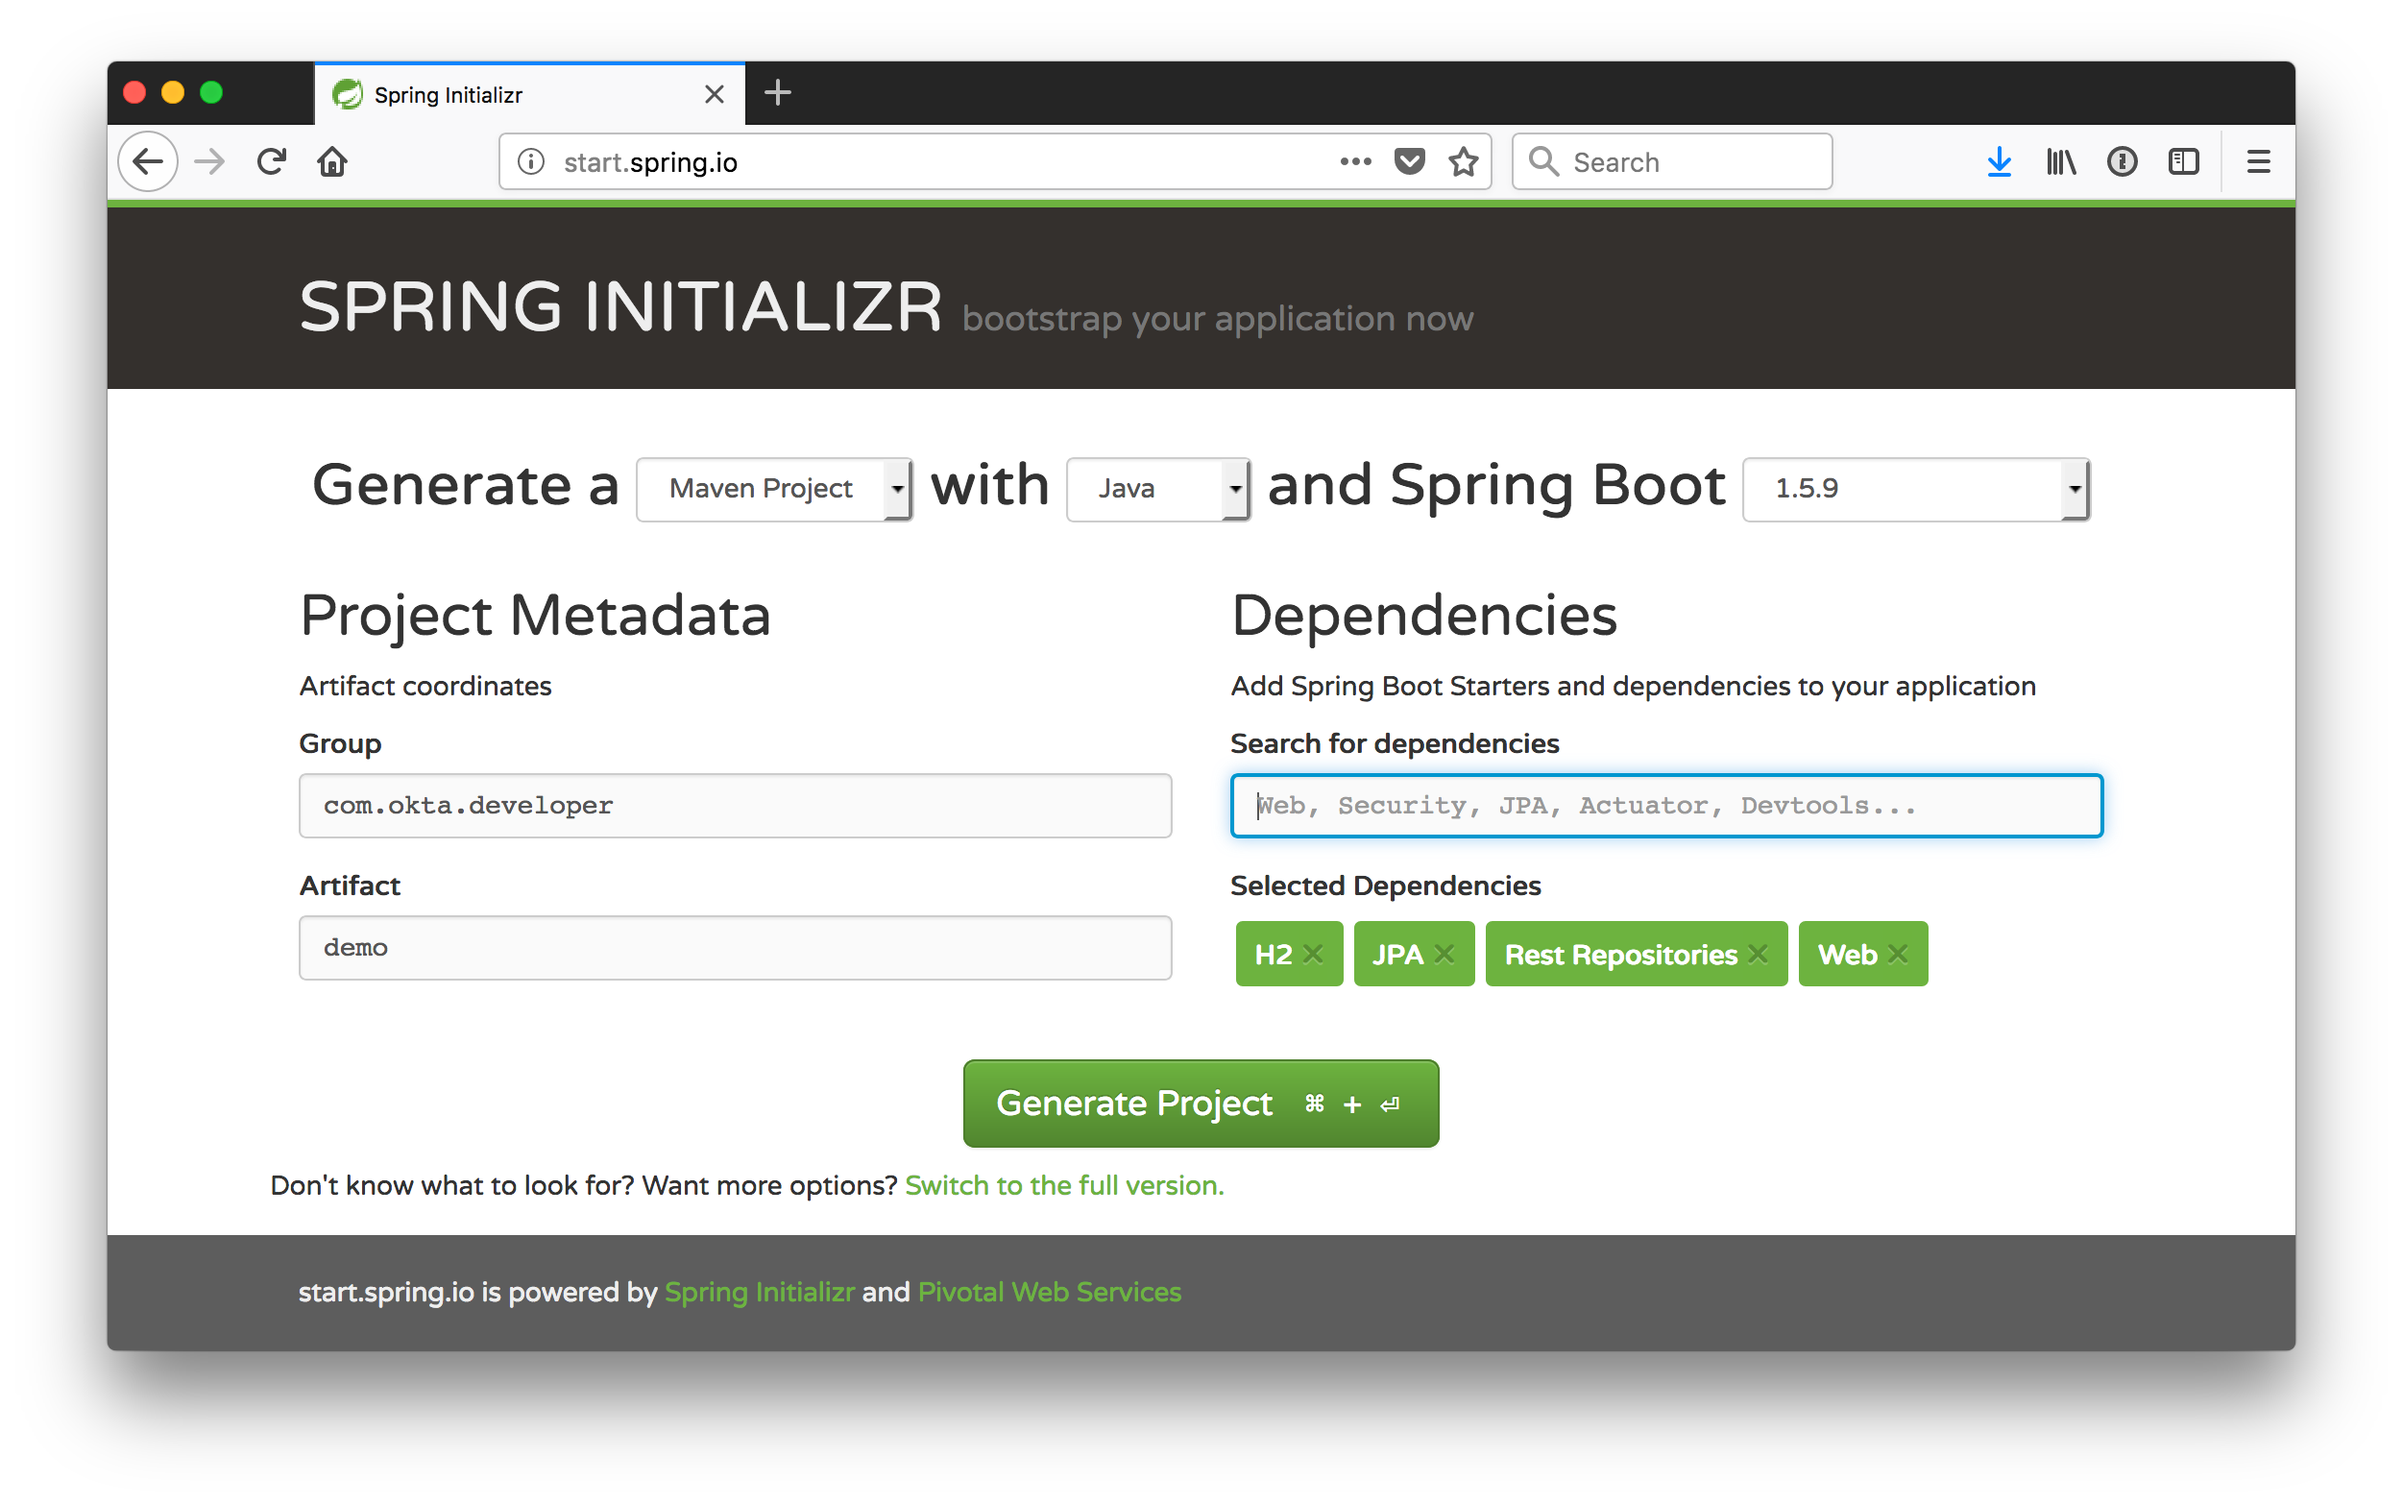
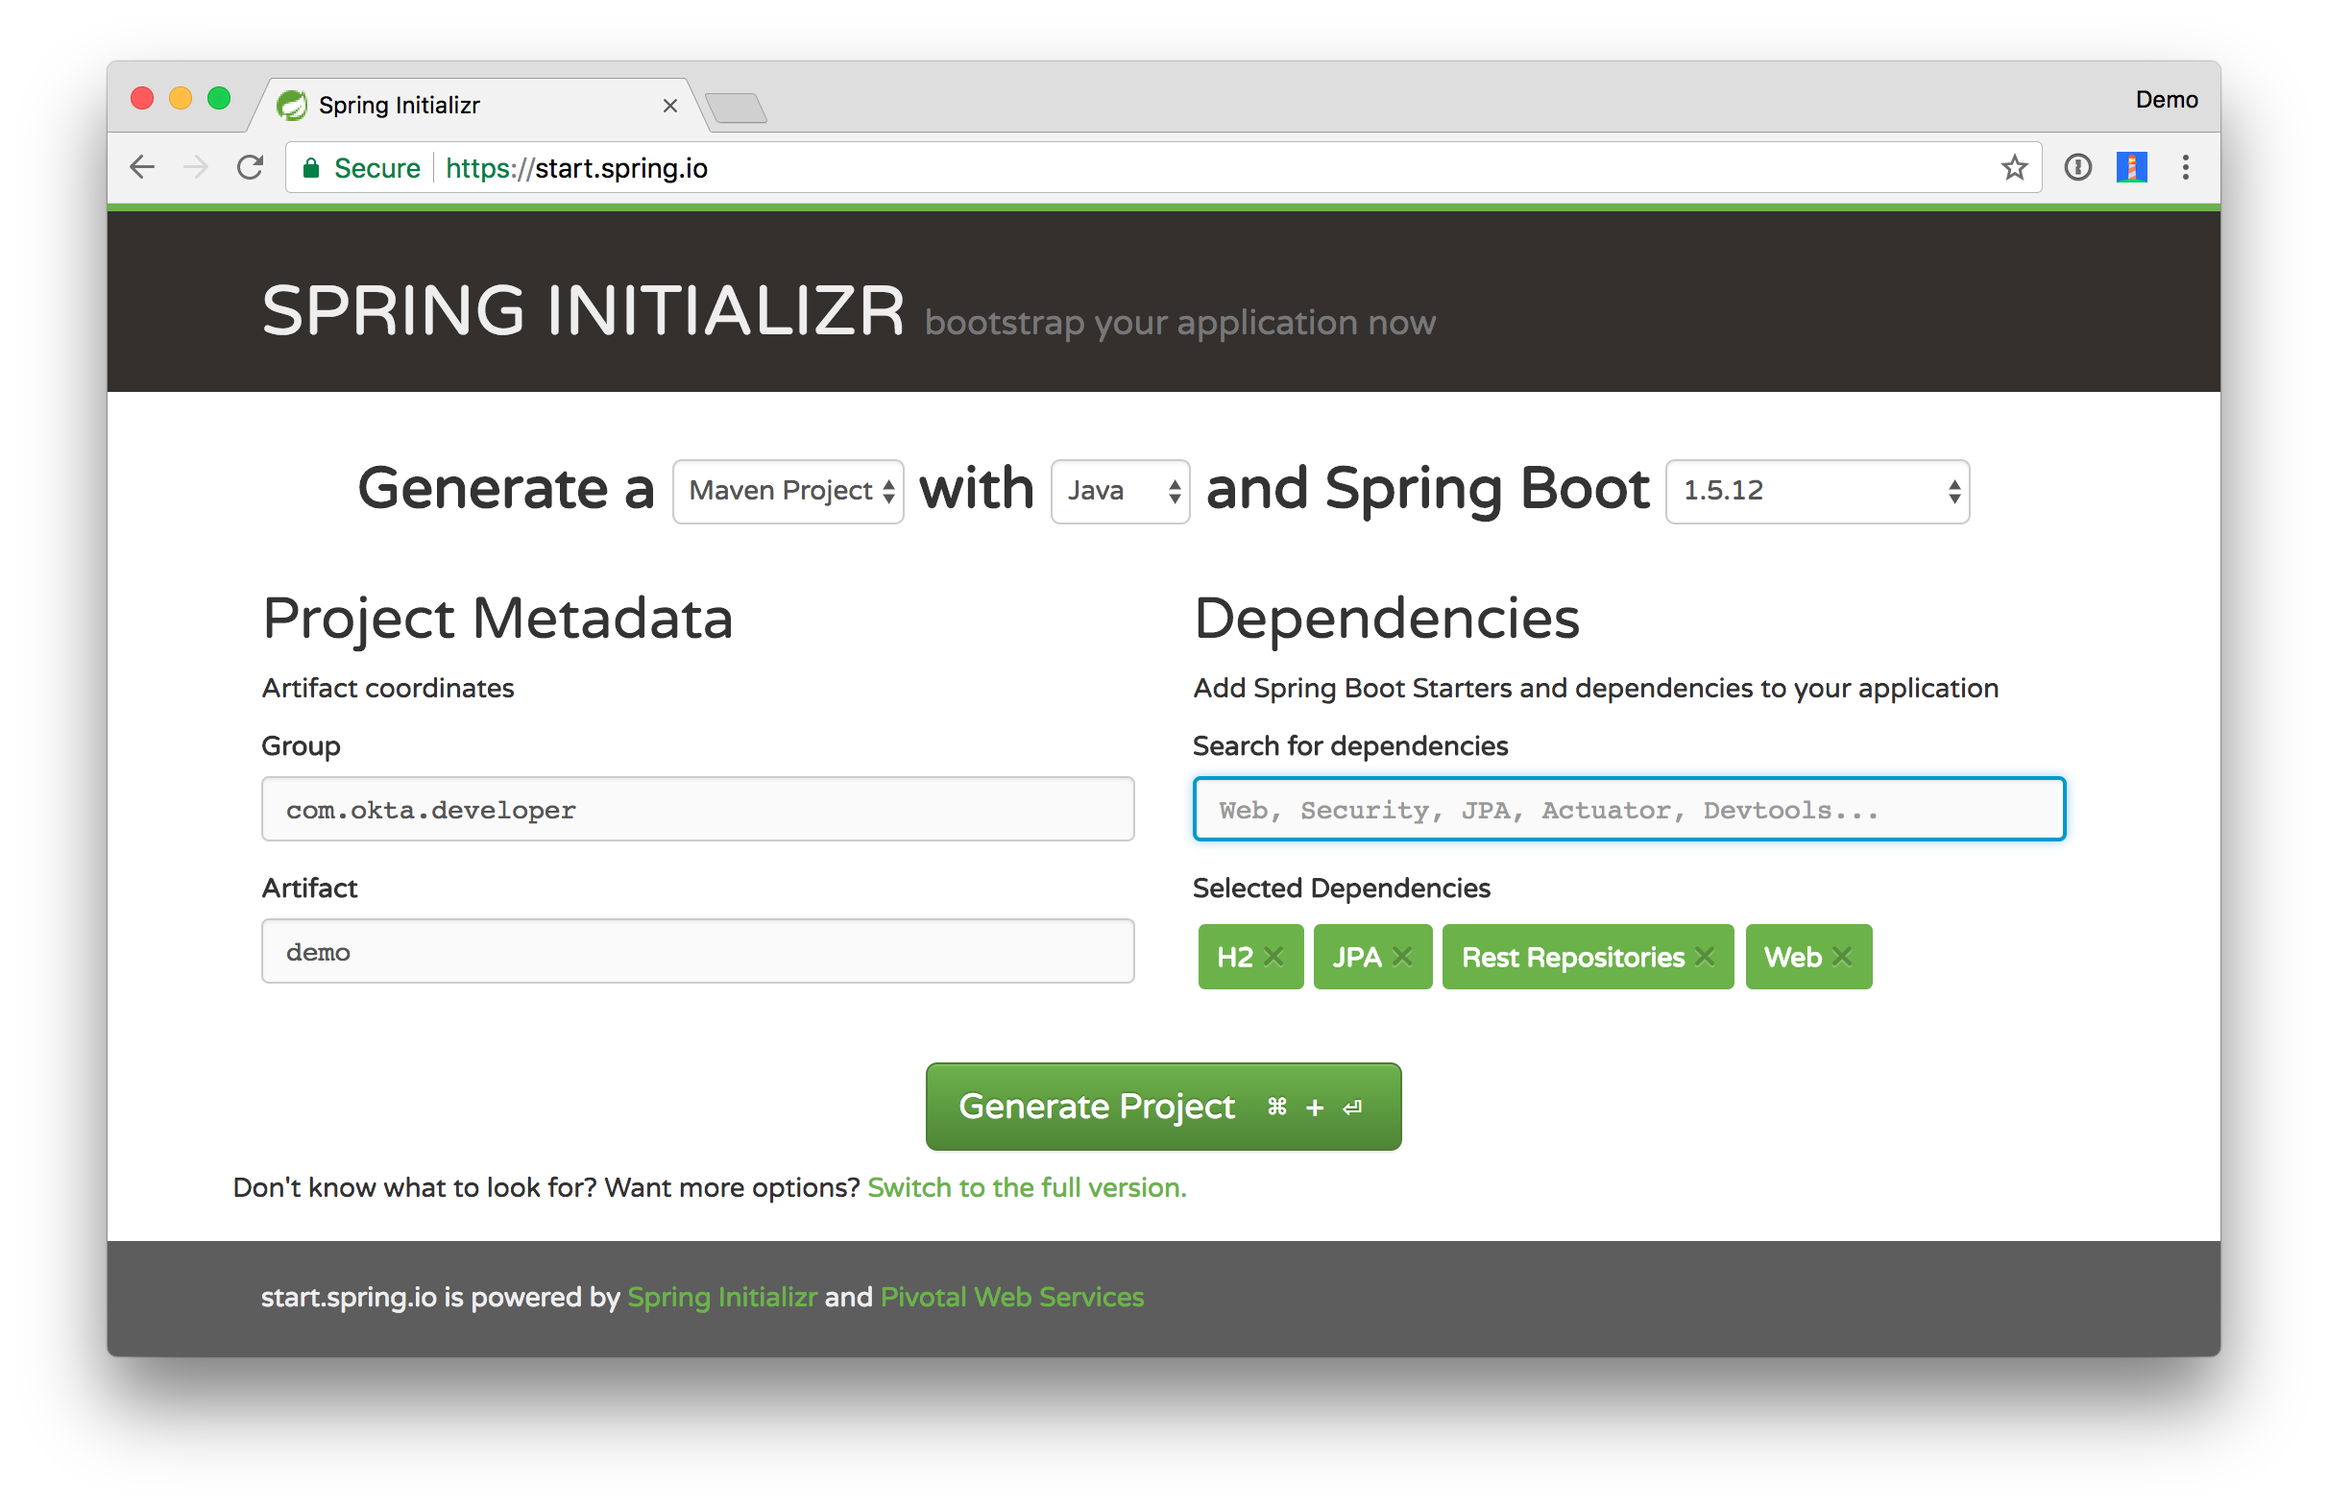
Update Bootiful React post to use Spring Boot 1.5.12 and Okta React 1.0.0

diff --git a/_source/_posts/2017-12-06-bootiful-development-with-spring-boot-and-react.md b/_source/_posts/2017-12-06-bootiful-development-with-spring-boot-and-react.md
@@ -6,7 +6,7 @@ description: "This post shows how you can build a UI and an API as separate apps
 tags: [authentication, spring boot, react, okta, oidc]
 tweets: 
   - "Learn how to integrate @springboot and @reactjs in this tutorial from @mraible."
-  - "Want to develop an application with @java on the backend and @typescriptlang on the front? This article is for you!"
+  - "Want to develop an application with @java on the backend and @reactjs on the front-end? This article is for you!"
 ---
 
 React has been getting a lot of positive press in the last couple years, making it an appealing frontend option for Java developers! Once you learn how it works, it makes a lot of sense and can be fun to develop with. Not only that, but it's *wicked fast!* If you’ve been following me, or if you've read this blog for a bit, you might remember my [Bootiful Development with Spring Boot and Angular](/blog/2017/04/26/bootiful-development-with-spring-boot-and-angular) tutorial. Today, I'll show you how to build the same application, except with React this time. Before we dive into that, let’s talk some more about what React is great for, and why I chose to explore it in this post.
@@ -23,7 +23,7 @@ Let's get started!
 
 **NOTE:** The instructions below for building a Spring Boot API are the same as the ones in [Bootiful Development with Spring Boot and Angular](/blog/2017/04/26/bootiful-development-with-spring-boot-and-angular). I've copied them below for your convenience.
 
-To get started with Spring Boot, navigate to [start.spring.io](https://start.spring.io). In the “Search for dependencies" field, select the following:
+To get started with Spring Boot, navigate to [start.spring.io](https://start.spring.io) and choose version 1.5.12+. In the “Search for dependencies" field, select the following:
 
 * [H2](http://www.h2database.com/html/main.html): An in-memory database
 * [JPA](http://www.oracle.com/technetwork/java/javaee/tech/persistence-jsp-140049.html): Standard ORM for Java
@@ -546,7 +546,7 @@ To lock down the backend, you can use [Okta's Spring Boot Starter](https://githu
 <dependency>
     <groupId>com.okta.spring</groupId>
     <artifactId>okta-spring-boot-starter</artifactId>
-    <version>0.2.0</version>
+    <version>0.4.0</version>
 </dependency>
 ```
 
@@ -558,7 +558,7 @@ You'll also need to add a `<dependencyManagement>` section to upgrade Spring Sec
         <dependency>
             <groupId>org.springframework.security.oauth</groupId>
             <artifactId>spring-security-oauth2</artifactId>
-            <version>2.2.0.RELEASE</version>
+            <version>2.3.0.RELEASE</version>
         </dependency>
     </dependencies>
 </dependencyManagement>
@@ -600,8 +600,8 @@ After making these changes, you should be able to restart the server and see acc
 Okta's React SDK allows you to integrate OIDC into a React application. You can learn more about Okta's React SDK can be [found on npmjs.com](https://www.npmjs.com/package/@okta/okta-react). To install, run the following commands:
 
 ```
-yarn add @okta/okta-react react-router-dom
-yarn add -D @types/react-router-dom
+yarn add @okta/okta-react@1.0.0 react-router-dom@4.2.2
+yarn add -D @types/react-router-dom@4.2.3
 ```
 
 Okta's React SDK depends on [react-router](https://www.npmjs.com/package/react-router), hence the reason for installing `react-router-dom`. Configuring routing in `client/src/App.tsx` is a common practice, so replace its code with the TypeScript below that sets up authentication with Okta.
@@ -721,11 +721,8 @@ If you look at your React app in your browser, you'll likely see an error like t
 
 ```bash
 ./src/Home.tsx
-(4,26): error TS7016: Could not find a declaration file for module '@okta/okta-react'.
-'/Users/mraible/spring-boot-react-example/client/node_modules/@okta/okta-react/dist/index.js'
-implicitly has an 'any' type.
- Try `npm install @types/@okta/okta-react` if it exists or add a new declaration (.d.ts) file
- containing `declare module '@okta/okta-react';`
+(4,26): error TS7016: Could not find a declaration file for module '@okta/okta-react'. '/Users/mraible/dev/okta/spring-boot-react-example/client/node_modules/@okta/okta-react/dist/index.js' implicitly has an 'any' type.
+  Try `npm install @types/@okta/okta-react` if it exists or add a new declaration (.d.ts) file containing `declare module '@okta/okta-react';`
 ```
 
 Create `client/src/okta.d.ts` with the following declaration to solve this problem.
@@ -956,3 +953,7 @@ git checkout okta
 ```
 
 If you find any issues, please add a comment below, and I'll do my best to help. If you liked this tutorial, I’d love to have you [follow me on Twitter](https://twitter.com/mraible). To be notified of more articles like this one, follow [@oktadev](https://twitter.com/oktadev).
+
+**Changelog:**
+
+* Apr 10, 2018: Updated to use Spring Boot 1.5.12, Okta Spring Boot Starter 0.4.0, and Okta React 1.0.0. See the code changes in the example app on GitHub: [master branch](https://github.com/oktadeveloper/spring-boot-react-example/pull/3), [okta branch](https://github.com/oktadeveloper/spring-boot-react-example/pull/2). Changes to this article can be viewed in [okta/okta.github.io#1942](https://github.com/okta/okta.github.io/pull/1942).
